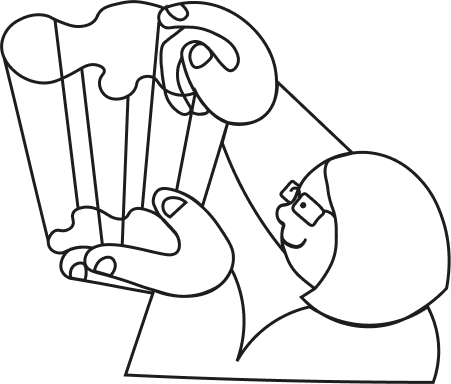
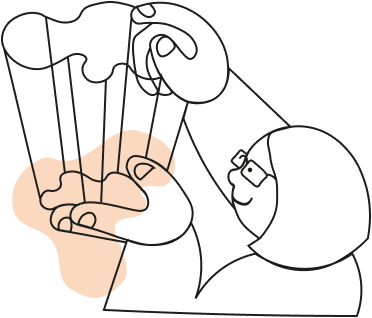
article carousel updated

diff --git a/app/page.tsx b/app/page.tsx
@@ -14,9 +14,6 @@ import {
 import OlgaPortrait from "@/public/olga-about.png";
 import ArticlesCarousel from "@/components/ArticlesCarousel";
 import FeedbackSlider from "@/components/FeedbackSlider";
-import HeaderBgPeach from "@/public/header-bg-yellow.png";
-import HeaderBgWhite from "@/public/header-bg-white.png";
-import HeaderStain from "@/public/header-stain.png";
 import Portrait from "@/public/olga.png";
 import Article from "@/components/Article";
 import ContactBackground from "@/public/contact-bg.png";
@@ -29,7 +26,6 @@ export default function Home() {
     <main className="min-h-screen overflow-hidden">
       <section id="front-section" className="wrapper bg-peach-stain">
         <div className="relative max-w-[25rem] lg:max-w-[80rem] h-[749px] mx-auto px-3 lg:px-6">
-          
           <Image
             src={Portrait}
             alt="Olga Korka Portrait"
@@ -37,8 +33,7 @@ export default function Home() {
             priority
             className="absolute z-[1] top-72 right-0 lg:top-20 lg:right-4 w-[22rem] sm:w-[33rem]"
           />
-          
-          
+
           <div className="text-center lg:text-left pt-6 lg:pt-48">
             <h1 className="text-2xl font-medium mb-[1.5rem]">
               Проект Ольги Корка
@@ -165,12 +160,12 @@ export default function Home() {
         </div>
       </section>
 
-      <section id="articles" className="hidden lg:block">
-        <div className="mx-10 my-16">
-          <h2 className="font-sans uppercase text-4xl font-extralight tracking-widest mb-[3rem]">
+      <section id="articles" className="hidden md:block w-full">
+        <div className="max-w-[80rem] mx-auto my-16">
+          <h2 className="font-sans uppercase text-4xl text-center font-extralight tracking-widest mb-[3rem]">
             А это будет интересно
           </h2>
-          <div className="grid grid-cols-4">
+          <div className="grid grid-cols-3 items-start">
             {articleData.map((article, index) => (
               <React.Fragment key={index}>
                 <Article
@@ -183,11 +178,13 @@ export default function Home() {
           </div>
         </div>
       </section>
-      <section id="articles-mobile" className="lg:hidden my-16 w-full">
-        <h2 className="font-sans uppercase text-3xl font-extralight tracking-widest text-center mb-[2rem]">
-          А это будет интересно
-        </h2>
-        <ArticlesCarousel />
+      <section id="articles-mobile" className="md:hidden w-full">
+        <div className="w-full my-16">
+          <h2 className="font-sans uppercase text-3xl font-extralight tracking-widest text-center mb-[2rem]">
+            А это будет интересно
+          </h2>
+          <ArticlesCarousel />
+        </div>
       </section>
     </main>
   );

diff --git a/components/ArticlesCarousel.tsx b/components/ArticlesCarousel.tsx
@@ -12,18 +12,18 @@ export default function ServicesCarousel() {
     superLargeDesktop: {
       // the naming can be any, depends on you.
       breakpoint: { max: 4000, min: 1024 },
-      items: 4,
+      items: 2,
     },
     desktop: {
       breakpoint: { max: 1024, min: 800 },
-      items: 3,
+      items: 2,
     },
     tablet: {
-      breakpoint: { max: 800, min: 464 },
+      breakpoint: { max: 768, min: 680 },
       items: 2,
     },
     mobile: {
-      breakpoint: { max: 464, min: 0 },
+      breakpoint: { max: 680, min: 0 },
       items: 1,
     },
   };

diff --git a/lib/data.ts b/lib/data.ts
@@ -110,11 +110,6 @@ export const articleData = [
     name: "ВЕСЬ В ДЕЛАХ: «В другой стране ты никогда не станешь своим в доску, но в этом нет трагедии» /",
     source: "YLE.FI",
   },
-  {
-    image: Article1,
-    name: "Финляндия в стекле. Стеклянное наследие Алвара Аалто /",
-    source: "журнал Culturalist",
-  },
 ] as const;
 
 export const aboutMe = {

diff --git a/tailwind.config.ts b/tailwind.config.ts
@@ -19,7 +19,7 @@ const config = {
     },
     extend: {
       backgroundImage: {
-        "peach-stain": "url('/peach-stain.svg')"
+        "peach-stain": "url('/stains/peach-stain.svg')"
       },
       fontFamily: {
         roboto: ["Roboto"],
